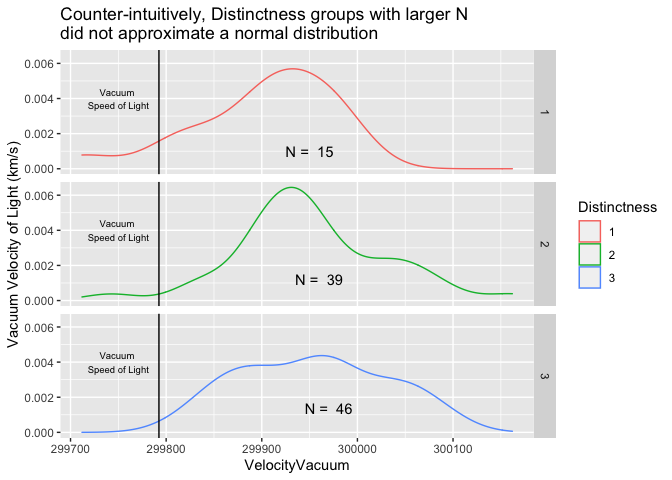
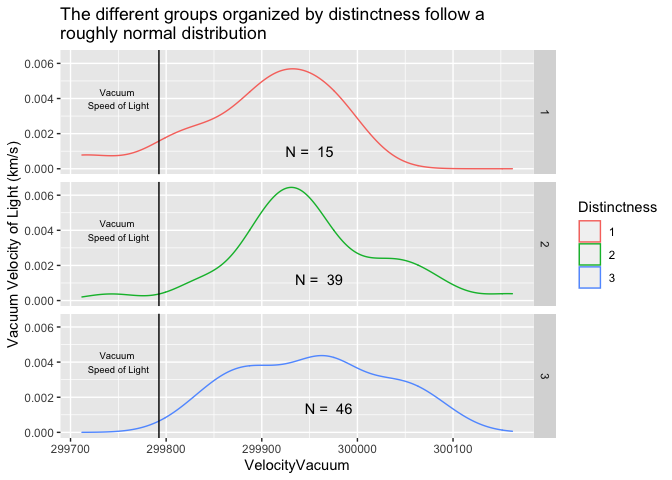
plot 1 again

Changed region(s): [[0.0938, 0.0, 0.7188, 0.0938]]

diff --git a/challenges/c02-michelson-assignment.md b/challenges/c02-michelson-assignment.md
@@ -316,7 +316,7 @@ plot1 <- df_q2 %>%
     mapping = aes(x = x, y = y, label = label) 
   )
 
-plot1 + labs(title = "Counter-intuitively, Distinctness groups with larger N \ndid not approximate a normal distribution", y = "Vacuum Velocity of Light (km/s)")
+plot1 + labs(title = "The different groups organized by distinctness follow a \nroughly normal distribution", y = "Vacuum Velocity of Light (km/s)")
 ```
 
 ![](c02-michelson-assignment_files/figure-gfm/q4-task-1.png)<!-- -->
